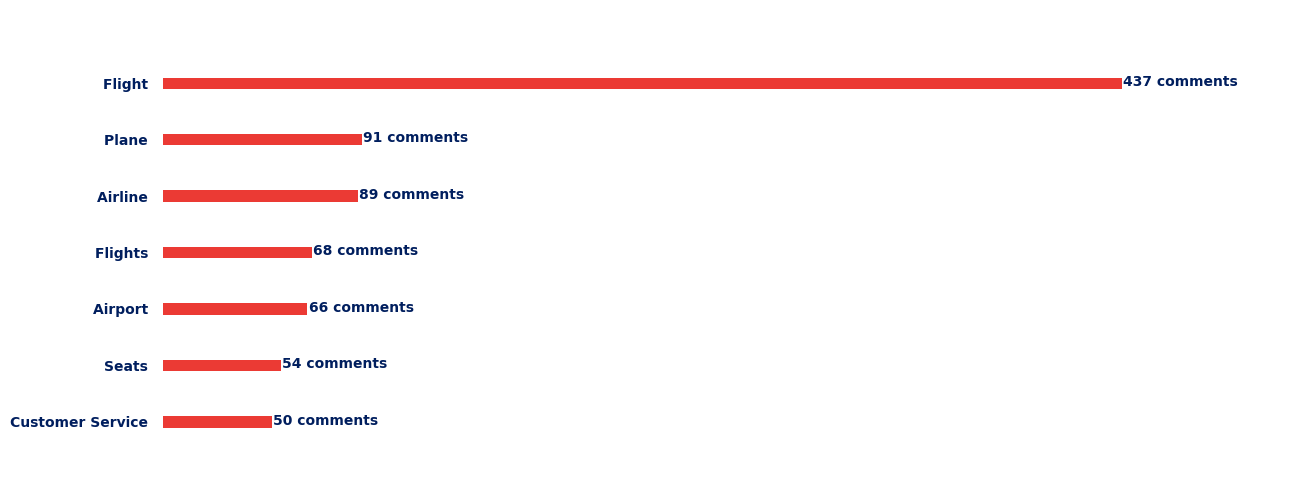
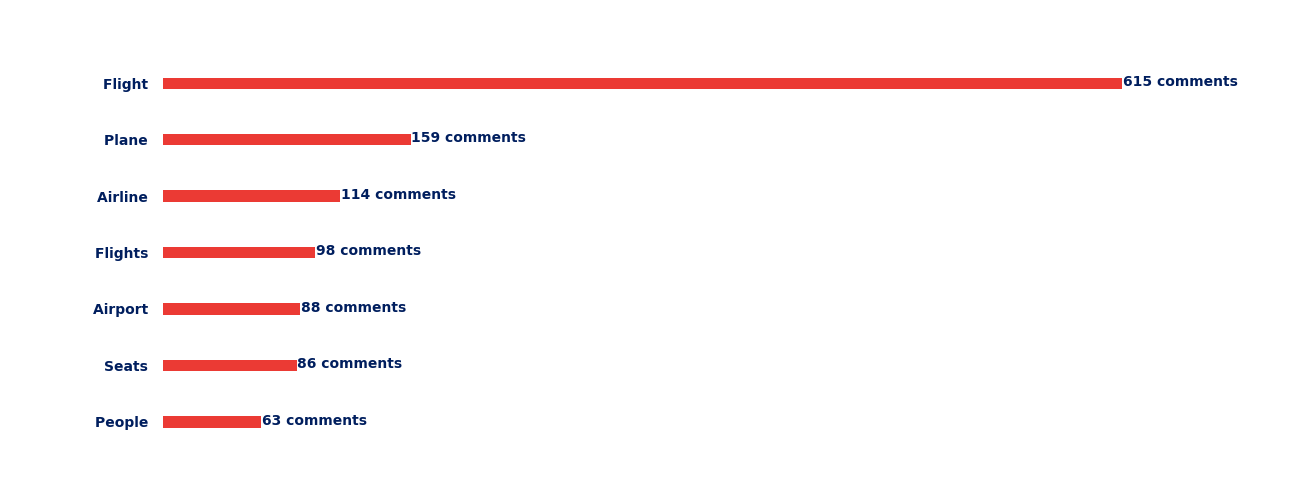
final push

diff --git a/src/analysis/cloud_creation/cloud_creator.py b/src/analysis/cloud_creation/cloud_creator.py
@@ -28,13 +28,13 @@ def getPositiveKeywords(json_file, data_src=None):
         keyword_list = []
         if data_src is not None:
             for item in data["results"]:
-                if item['sentiment_score'] >= 0.25 and item['source'] == data_src:
+                if item['sentiment_score'] > 0 and item['source'] == data_src:
                     keyword_list.extend(item['keywords'])
             keyword_list = filter(lambda i: i.lower()  not in useless_words, keyword_list)
             return keyword_list
         else:
             for item in data["results"]:
-                if item['sentiment_score'] >= 0.25:
+                if item['sentiment_score'] > 0:
                     keyword_list.extend(item['keywords'])
             keyword_list = filter(lambda i: i.lower()  not in useless_words, keyword_list)
             return keyword_list
@@ -45,13 +45,13 @@ def getNegativeKeywords(json_file, data_src=None):
         keyword_list = []
         if data_src is not None:
             for item in data["results"]:
-                if item['sentiment_score'] <= -0.25 and item['source'] == data_src:
+                if item['sentiment_score'] < 0 and item['source'] == data_src:
                     keyword_list.extend(item['keywords'])
             keyword_list = filter(lambda i: i.lower()  not in useless_words, keyword_list)
             return keyword_list
         else:
             for item in data["results"]:
-                if item['sentiment_score'] <= -0.25:
+                if item['sentiment_score'] < 0:
                     keyword_list.extend(item['keywords'])
             keyword_list = filter(lambda i: i.lower()  not in useless_words, keyword_list)
             return keyword_list
@@ -62,13 +62,13 @@ def getAllKeywords(json_file, data_src=None):
         keyword_list = []
         if data_src is not None:
             for item in data["results"]:
-                if (item['sentiment_score'] <= -0.25 or item['sentiment_score'] >= 0.25) and item['source'] == data_src:
+                if (item['sentiment_score'] < 0 or item['sentiment_score'] > 0) and item['source'] == data_src:
                     keyword_list.extend(item['keywords'])
             keyword_list = filter(lambda i: i.lower()  not in useless_words, keyword_list)
             return keyword_list
         else:
             for item in data["results"]:
-                if (item['sentiment_score'] <= -0.25 or item['sentiment_score'] >= 0.25):
+                if (item['sentiment_score'] < 0 or item['sentiment_score'] > 0):
                     keyword_list.extend(item['keywords'])
             keyword_list = filter(lambda i: i.lower()  not in useless_words, keyword_list)
             return keyword_list
@@ -83,7 +83,7 @@ def red_color_func(word, font_size, position, orientation, random_state=None, **
 
 # create shades of red for word cloud to represent negative attributes
 def purple_color_func(word, font_size, position, orientation, random_state=None, **kwargs):
-    return "hsl(280, 100%%, %d%%)" % random.randint(30, 70)
+    return "hsl(205, 100%%, %d%%)" % random.randint(30, 50)
 
 # creates a cloud or rectangle of key words
 class WordCloudGenerator:
@@ -216,32 +216,12 @@ class WordGraphGenerator:
 # run
 # create instance of WordCloud
 image1 = WordCloudGenerator()
-image1.create_keywords_file('refined_big_output.json', 'cloud.txt', "negative")
-image1.generate_image("cloud.txt", "negCloud.png", "negative", 'cloud.png')
-
+image1.create_keywords_file('refined_big_output.json', 'cloud.txt', "", "tripadvisor")
+image1.generate_image("cloud.txt", "tripadvisorCloud.png", "", 'cloud.png')
 image2 = WordCloudGenerator()
-image2.create_keywords_file('refined_big_output.json', 'cloud.txt', "positive")
-image2.generate_image("cloud.txt", "posCloud.png", "positive", 'cloud.png')
+image2.create_keywords_file('refined_big_output.json', 'cloud.txt', "", "twitter")
+image2.generate_image("cloud.txt", "twitterCloud.png", "", 'cloud.png')
 
-imageFB = WordCloudGenerator()
-imageFB.create_keywords_file('refined_big_output.json', 'cloud.txt', "negative", "facebook")
-imageFB.generate_image("cloud.txt", 'fbCloud.png', "negative", "cloud.png")
-
-imageAllFB = WordCloudGenerator()
-imageAllFB.create_keywords_file('refined_big_output.json', 'cloud.txt', "", "facebook")
-imageAllFB.generate_image("cloud.txt", "fbAllCloud.png", "", "cloud.png")
-
-imageAllTw = WordCloudGenerator()
-imageAllTw.create_keywords_file('refined_big_output.json', 'cloud.txt', "", "twitter")
-imageAllTw.generate_image("cloud.txt", "twAllCloud.png", "", "cloud.png")
-
-imageNegTw = WordCloudGenerator()
-imageNegTw.create_keywords_file('refined_big_output.json', 'cloud.txt', "negative", "twitter")
-imageNegTw.generate_image("cloud.txt", "twNegCloud.png", "negative", "cloud.png")
-
-imageTA = WordCloudGenerator()
-imageTA.create_keywords_file('refined_big_output.json', 'cloud.txt', "", "twitter")
-imageTA.generate_image("cloud.txt", "taCloud.png", "")
 
 # create instance of WordGraph
 graph1 = WordGraphGenerator()
